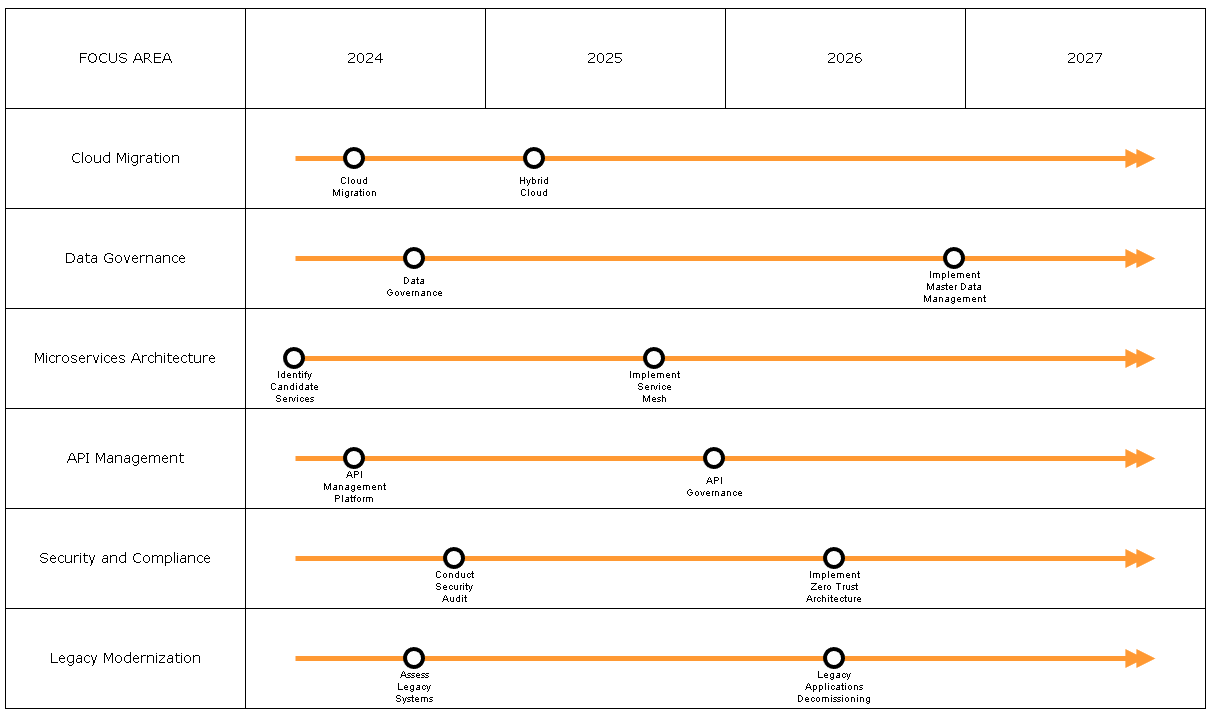
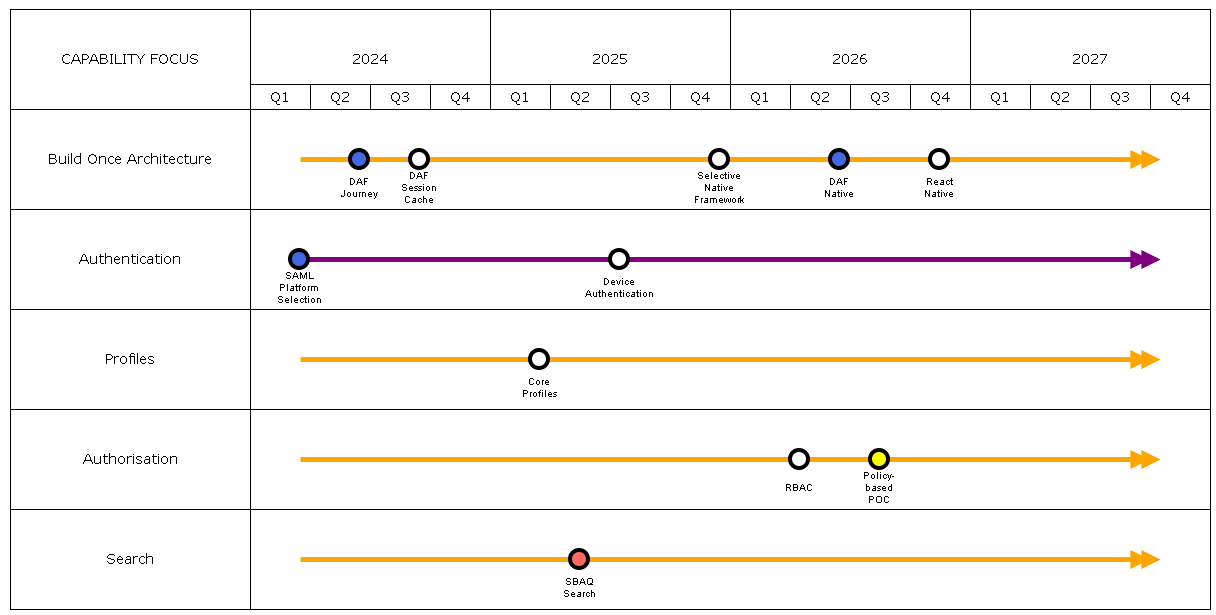
colorized tubemaps in drawio, quarterly subdivision in drawio

diff --git a/drawio_roadmaps/renderers/roadmap_renderer.py b/drawio_roadmaps/renderers/roadmap_renderer.py
@@ -1,4 +1,4 @@
-from drawio_roadmaps.drawio.drawio_shapes import Circle
+from drawio_roadmaps.drawio.drawio_shapes import create_line
 from drawio_roadmaps.drawio.drawio_helpers import id_generator, layer_id
 from drawio_roadmaps.enums.event_type import EventType
 from drawio_roadmaps.enums.swimlane_type import SwimlaneType
@@ -82,7 +82,6 @@ class AsciiRoadmapRenderer():
 
 
 # ToDo: Move out of here to drawio objects file
-
 def create_rectangle(parent, x, y, width, height, **kwargs):
     try:
         mxcell = etree.Element('mxCell')
@@ -103,55 +102,6 @@ def create_rectangle(parent, x, y, width, height, **kwargs):
     except Exception as e:
         print(e)
         RuntimeError('Error creating rectangle')
-
-
-def create_line(parent, x1, y1, x2, y2, width, height, **kwargs):
-    try:
-        mxcell = etree.Element('mxCell')
-        mxcell.set('id', id_generator())
-        if 'value' in kwargs:
-            mxcell.set('value', kwargs.get('value', ''))
-        mxcell.set('style', kwargs.get('style', ''))
-        mxcell.set('parent', parent)
-        mxcell.set('edge', '1')
-        mxGeometry = etree.Element('mxGeometry')
-        mxGeometry.set('width', str(width))
-        mxGeometry.set('height', str(height))
-        mxGeometry.set('relative', '1')
-        mxGeometry.set('as', 'geometry')
-        mxSourcePoint = etree.Element('mxPoint')
-        mxSourcePoint.set('x', str(x1))
-        mxSourcePoint.set('y', str(y1))
-        mxSourcePoint.set('as', 'sourcePoint')
-        mxGeometry.append(mxSourcePoint)
-        mxTargetPoint = etree.Element('mxPoint')
-        mxTargetPoint.set('x', str(x2))
-        mxTargetPoint.set('y', str(y2))
-        mxTargetPoint.set('as', 'targetPoint')
-        mxGeometry.append(mxTargetPoint)
-        mxcell.append(mxGeometry)
-        return mxcell
-    except Exception as e:
-        print(e)
-        RuntimeError('Error creating line')
-
-
-class Label:
-    def __init__(self, name, x, y, width, height, **kwargs):
-        self.kwargs = kwargs
-        self.kwargs['value'] = name
-        self.kwargs['style'] = ('text;html=1;strokeColor=none;fillColor=none;align=center;fontFamily=Verdana;' +
-                                'verticalAlign=middle;whiteSpace=wrap;rounded=0;fontSize=14;' +
-                                'labelBackgroundColor=#ffffff;')
-        self.x1 = x
-        self.y1 = y
-        self.width = width
-        self.height = height
-
-    def render(self, root):
-        layer = layer_id(root, 'Default')
-        container = create_rectangle(layer, self.x1, self.y1, self.width, self.height, **self.kwargs)
-        root.append(container)
 
 
 class Label:
@@ -219,7 +169,44 @@ class DrawIORoadmapRenderer:
                                    style='fillColor=#ffffff;strokeColor=#000000;')
             year_label.render(root)
 
+        if config.Global.show_quarters:
+            # Copilot auto generated this code
+            for index, year in enumerate(years):
+                xy_cursor = (year_lenght_px * (index + 1), swimlane_height * 0.75)
+                quarter_label = Rectangle(f"Q1",
+                                         x=xy_cursor[0],
+                                         y=xy_cursor[1],
+                                         width=year_lenght_px / 4,
+                                         height=swimlane_height * 0.25,
+                                         style='fillColor=#ffffff;strokeColor=#000000;')
+                quarter_label.render(root)
+                xy_cursor = (year_lenght_px * (index + 1) + year_lenght_px / 4, swimlane_height * 0.75)
+                quarter_label = Rectangle(f"Q2",
+                                         x=xy_cursor[0],
+                                         y=xy_cursor[1],
+                                         width=year_lenght_px / 4,
+                                         height=swimlane_height * 0.25,
+                                         style='fillColor=#ffffff;strokeColor=#000000;')
+                quarter_label.render(root)
+                xy_cursor = (year_lenght_px * (index + 1) + year_lenght_px / 2, swimlane_height * 0.75)
+                quarter_label = Rectangle(f"Q3",
+                                         x=xy_cursor[0],
+                                         y=xy_cursor[1],
+                                         width=year_lenght_px / 4,
+                                         height=swimlane_height * 0.25,
+                                         style='fillColor=#ffffff;strokeColor=#000000;')
+                quarter_label.render(root)
+                xy_cursor = (year_lenght_px * (index + 1) + year_lenght_px * 3 / 4, swimlane_height * 0.75)
+                quarter_label = Rectangle(f"Q4",
+                                         x=xy_cursor[0],
+                                         y=xy_cursor[1],
+                                         width=year_lenght_px / 4,
+                                         height=swimlane_height * 0.25,
+                                         style='fillColor=#ffffff;strokeColor=#000000;')
+                quarter_label.render(root)
+
         for index, swimlane in enumerate(roadmap.swimlanes):
+
             # allow for the header
             xy_cursor = (0, (index + 1) * swimlane_height)
 
@@ -238,10 +225,20 @@ class DrawIORoadmapRenderer:
             xy_cursor[0] + year_lenght_px + year_lenght_px * (len(years)) - 50  # end of line magic gap
             , xy_cursor[1] + int(swimlane_height / 2))
 
-            timeline = create_line(layer_id(root, 'Default'), xy_timeline_begin[0], xy_timeline_begin[1],
-                                   xy_timeline_end[0], xy_timeline_end[1], 2, 2,
-                                   style='strokeColor=#FF9933;strokeWidth=5;endArrow=doubleBlock;')
-            root.append(timeline)
+            swimlane.tubemap_line(root=root,
+                                  layer="Default",
+                                  begin_x=xy_timeline_begin[0],
+                                  begin_y=xy_timeline_begin[1],
+                                  end_x=xy_timeline_end[0],
+                                  end_y=xy_timeline_end[1],
+                                  width=2,
+                                  height=2,
+                                  style={
+                                      'strokeColor': swimlane.type.metadata_drawio.strokeColor,
+                                      'strokeWidth': '5',
+                                      'endArrow': 'doubleBlock'
+                                  })
+
 
             for event in swimlane.events:
                 x = xy_cursor[0] + \

diff --git a/drawio_roadmaps/drawio/drawio_shapes.py b/drawio_roadmaps/drawio/drawio_shapes.py
@@ -76,6 +76,7 @@ class Circle:
             layer = layer_id(root, 'Default')
         container = create_circle(layer, self.x1, self.y1, self.width, self.height, **self.kwargs)
         self.container = container
+
     def render(self, root):
         self._generate(root)
         root.append(self.container)
@@ -83,3 +84,79 @@ class Circle:
     def append_to(self, root):
         root.append(self.container)
 
+
+def create_line(parent, x1, y1, x2, y2, width, height, **kwargs):
+    try:
+        mxcell = etree.Element('mxCell')
+        mxcell.set('id', id_generator())
+        if 'value' in kwargs:
+            mxcell.set('value', kwargs.get('value', ''))
+        mxcell.set('style', kwargs.get('style', ''))
+        mxcell.set('parent', parent)
+        mxcell.set('edge', '1')
+        mxGeometry = etree.Element('mxGeometry')
+        mxGeometry.set('width', str(width))
+        mxGeometry.set('height', str(height))
+        mxGeometry.set('relative', '1')
+        mxGeometry.set('as', 'geometry')
+        mxSourcePoint = etree.Element('mxPoint')
+        mxSourcePoint.set('x', str(x1))
+        mxSourcePoint.set('y', str(y1))
+        mxSourcePoint.set('as', 'sourcePoint')
+        mxGeometry.append(mxSourcePoint)
+        mxTargetPoint = etree.Element('mxPoint')
+        mxTargetPoint.set('x', str(x2))
+        mxTargetPoint.set('y', str(y2))
+        mxTargetPoint.set('as', 'targetPoint')
+        mxGeometry.append(mxTargetPoint)
+        mxcell.append(mxGeometry)
+        return mxcell
+    except Exception as e:
+        print(e)
+        RuntimeError('Error creating line')
+
+class Line:
+    def __init__(self, root, layer, x1, y1, x2, y2, width, height, **kwargs):
+        self.root = root
+        self.layer = layer
+        self.style =  {
+            'html': '1',
+            'rounded': '0',
+            'endFill': '1',
+        }
+        style = kwargs.get('style', {})
+        self.style.update(style)
+        self.style = '' + ';'.join(f'{key}={value}' for key, value in self.style.items()) + ';'
+        self.kwargs = {}
+        self.kwargs['style'] = self.style
+        # style="endArrow=doubleBlock;html=1;rounded=0;strokeWidth=5;endFill=1;fillColor=#fad7ac;strokeColor=#b48e04;
+
+        self.x1 = x1
+        self.y1 = y1
+        self.x2 = x2
+        self.y2 = y2
+        self.width = width
+        self.height = height
+        self.container = None
+
+    def __str__(self):
+        if self.container is None:
+            self._generate()
+        result = etree.tostring(self.container, pretty_print=True).decode('utf-8')
+        return result
+
+    def _generate(self, root=None):
+        if root is None:
+            layer = '00000000'
+        else:
+            layer = layer_id(root, name=self.layer)
+        container = create_line(layer, self.x1, self.y1, self.x2, self.y2, self.width, self.height,
+                                **self.kwargs)
+        self.container = container
+
+    def render(self, root):
+        self._generate(root)
+        root.append(self.container)
+
+    def append_to(self, root):
+        root.append(self.container)

diff --git a/drawio_roadmaps/classes/swimlane.py b/drawio_roadmaps/classes/swimlane.py
@@ -14,7 +14,7 @@ class Swimlane:
         self.roadmap_renderer = None
 
     def __str__(self, indent=0):
-        swimlane_str = ' ' * indent + f"Swimlane: {self.name} [{self.type.render_meta.color}]\n"
+        swimlane_str = ' ' * indent + f"Swimlane: {self.name} [{self.type.metadata_drawio.color}]\n"
         for event in self.events:
             swimlane_str += event.__str__(indent + 4)
         swimlane_str += '\n'
@@ -22,6 +22,21 @@ class Swimlane:
 
     def set_renderer(self, renderer):
         self.renderer = renderer
+
+    # Todo: This is output specifc implementation for Drawio, should be moved to the appropriate renderer
+    # and if we still want abstraction, should work equally for all output formats, we might even implement it here?
+    def tubemap_line(self, root, layer, begin_x, begin_y, end_x, end_y, width, height, style):
+        renderer = renderer_manager.get_renderer('swimlane')
+        renderer.render_line(root=root,
+                             layer=layer,
+                             begin_x=begin_x,
+                             begin_y=begin_y,
+                             end_x=end_x,
+                             end_y=end_y,
+                             width=width,
+                             height=height,
+                             style=style)
+        return
 
     def render(self, segment_width, years):
 

diff --git a/drawio_roadmaps/renderers/event_renderer.py b/drawio_roadmaps/renderers/event_renderer.py
@@ -17,7 +17,7 @@ class AsciiEventRenderer(EventRenderer):
 
 class StringEventRenderer(EventRenderer):
     def render_event(self, event):
-        event_str = f"Event: {event.description} {event.event_type} {event.render_meta.fillColor}\n"
+        event_str = f"Event: {event.description} {event.event_type} {event.metadata_drawio.fillColor}\n"
         return event_str
 
 class DrawIOEventRenderer(EventRenderer):
@@ -28,14 +28,16 @@ class DrawIOEventRenderer(EventRenderer):
     def get_drawio_xml(self, event):
         return str(event)
 
-    def render_circle(self, event, root, x, y, style):
+    def render_circle(self, event, root, layer, x, y, style):
         circle = Circle(event.name,
-                   layer=layer_id(root, 'Default'),
-                   x=x,
-                   y=y,
-                   width=18,
-                   height=18,
-                   style={'fillColor': event.event_type.render_meta.fillColor})
+                        layer=layer_id(root, name=layer),
+                        x=x,
+                        y=y,
+                        width=18,
+                        height=18,
+                        style={
+                            'fillColor': event.event_type.render_meta.fillColor
+                        })
         circle.render(root)
         return
 

diff --git a/drawio_roadmaps/renderers/swimlane_renderer.py b/drawio_roadmaps/renderers/swimlane_renderer.py
@@ -1,8 +1,11 @@
+from drawio_roadmaps.drawio.drawio_shapes import Line
+from drawio_roadmaps.drawio.drawio_helpers import id_generator, layer_id
 
 
 class SwimlaneRenderer:
     def render(self, swimlane):
         raise NotImplementedError
+
 
 class AsciiSwimlaneRenderer(SwimlaneRenderer):
     def render(self, swimlane):
@@ -13,9 +16,24 @@ class DrawIOSwimlaneRenderer(SwimlaneRenderer):
     def render(self, swimlane):
         return f"Swimlane DrawIO XML: {swimlane.name}"
 
+    def render_line(self, root, layer, begin_x, begin_y, end_x, end_y, width, height, style):
+        line = Line(root=root,
+                    layer=layer,
+                    x1=begin_x,
+                    y1=begin_y,
+                    x2=end_x,
+                    y2=end_y,
+                    width=width,
+                    height=height,
+                    style=style)
+        line.render(root)
+        return
+
+
 class PowerPointSwimlaneRenderer(SwimlaneRenderer):
     def render(self, swimlane):
         return f"Swimlane Powerpoint XML: {swimlane.name}"
+
 
 class StringSwimlaneRenderer(SwimlaneRenderer):
     def render(self, swimlane):

diff --git a/drawio_roadmaps/enums/swimlane_type.py b/drawio_roadmaps/enums/swimlane_type.py
@@ -2,17 +2,23 @@ from enum import Enum
 from dataclasses import dataclass
 
 @dataclass
-class SwimlaneRenderMeta:
-    color: str
+class SwimlaneMetadataDrawio:
+    strokeColor: str
+
+
+# TODO: Implement
+class SwimlaneMetadataAscii:
+    marker: str
+
 
 class SwimlaneType(Enum):
-    PLATFORM = ('=', "Platform", SwimlaneRenderMeta(color="#FF0000"))
-    INDEPENDENT = ('—', "Independent", SwimlaneRenderMeta(color="#0F00F0"))  # Em dash
+    PLATFORM = ('=', "Platform", SwimlaneMetadataDrawio(strokeColor="#FFA500"))
+    INDEPENDENT = ('—', "Independent", SwimlaneMetadataDrawio(strokeColor="#800080"))
 
-    def __init__(self, marker, description, render_meta):
+    def __init__(self, marker, description, metadata_drawio):
         self.marker = marker
         self.description = description
-        self.render_meta = render_meta
+        self.metadata_drawio = metadata_drawio
 
     @classmethod
     def get_legend_for_swimlane_types(cls):

diff --git a/drawio_roadmaps/classes/event.py b/drawio_roadmaps/classes/event.py
@@ -32,6 +32,7 @@ class Event:
     def __repr__(self):
         return f"{self.event_type.marker} {self.description} [{self.date.strftime('%Y-%m-%d')} " \
                f"{self.event_type.render_meta.fillColor}]"
+
     def to_string(self, indent=0):
         return ' ' * indent + repr(self)
 
@@ -47,7 +48,7 @@ class Event:
 
     def tubemap_station(self, root, layer, x, y, style):
         renderer = renderer_manager.get_renderer('event')
-        renderer.render_circle(self, root, x, y, style)
+        renderer.render_circle(self, root, layer, x, y, style)
         return
 
     def get_drawio_xml(self):

diff --git a/drawio_roadmaps/inspect_drawio_xml.py b/drawio_roadmaps/inspect_drawio_xml.py
@@ -2,8 +2,9 @@ import drawio_roadmaps.drawio.drawio_tools as drawio_tools
 import lxml.etree as etree
 from xml.etree import ElementTree
 
+# x = etree.parse('examples/inspect.drawio')
 x = etree.parse('examples/inspect.drawio')
-#print(etree.tostring(x, pretty_print=True))
+# print(etree.tostring(x, pretty_print=True))
 
 diagram_data = x.findall('.//diagram')[0]#.text
 #print(diagram_data)

diff --git a/drawio_roadmaps/enums/event_type.py b/drawio_roadmaps/enums/event_type.py
@@ -29,4 +29,4 @@ class EventType(Enum):
 
     @classmethod
     def get_legend_for_event_types(cls):
-        return ", ".join([f"{member.marker} {member.description} {member.render_meta.fillColor}" for name, member in cls.__members__.items()])
+        return ", ".join([f"{member.marker} {member.description} {member.metadata_drawio.fillColor}" for name, member in cls.__members__.items()])
